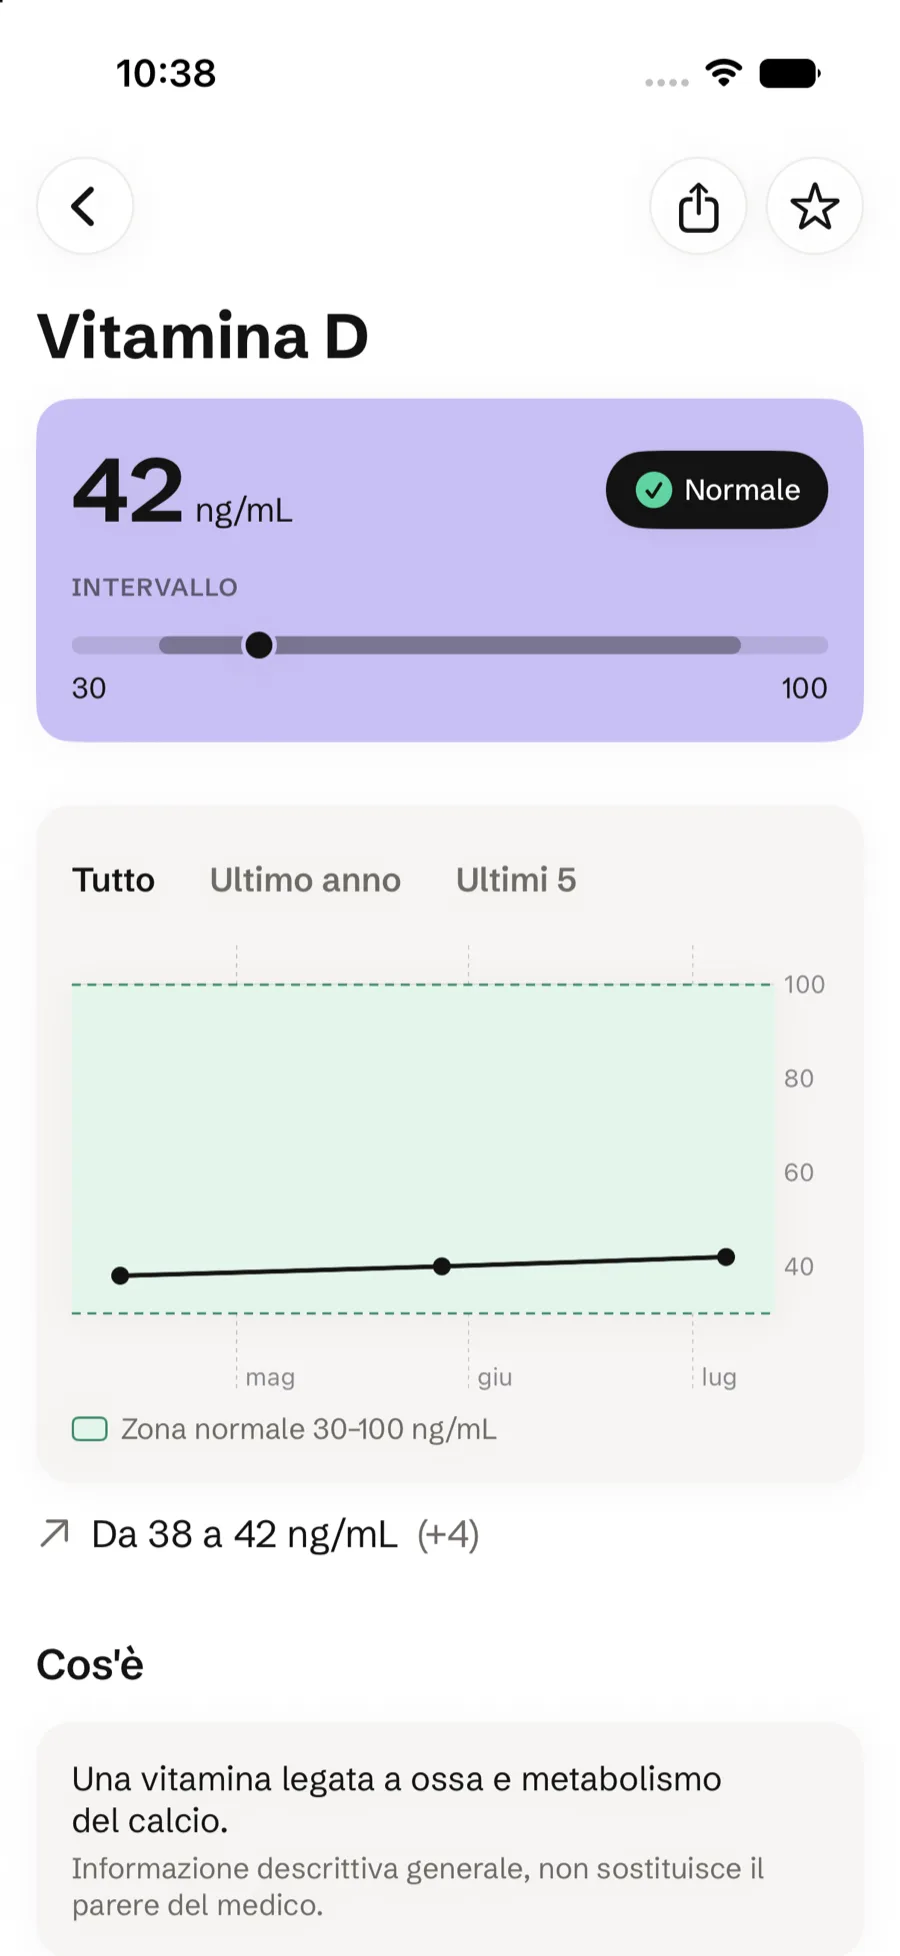
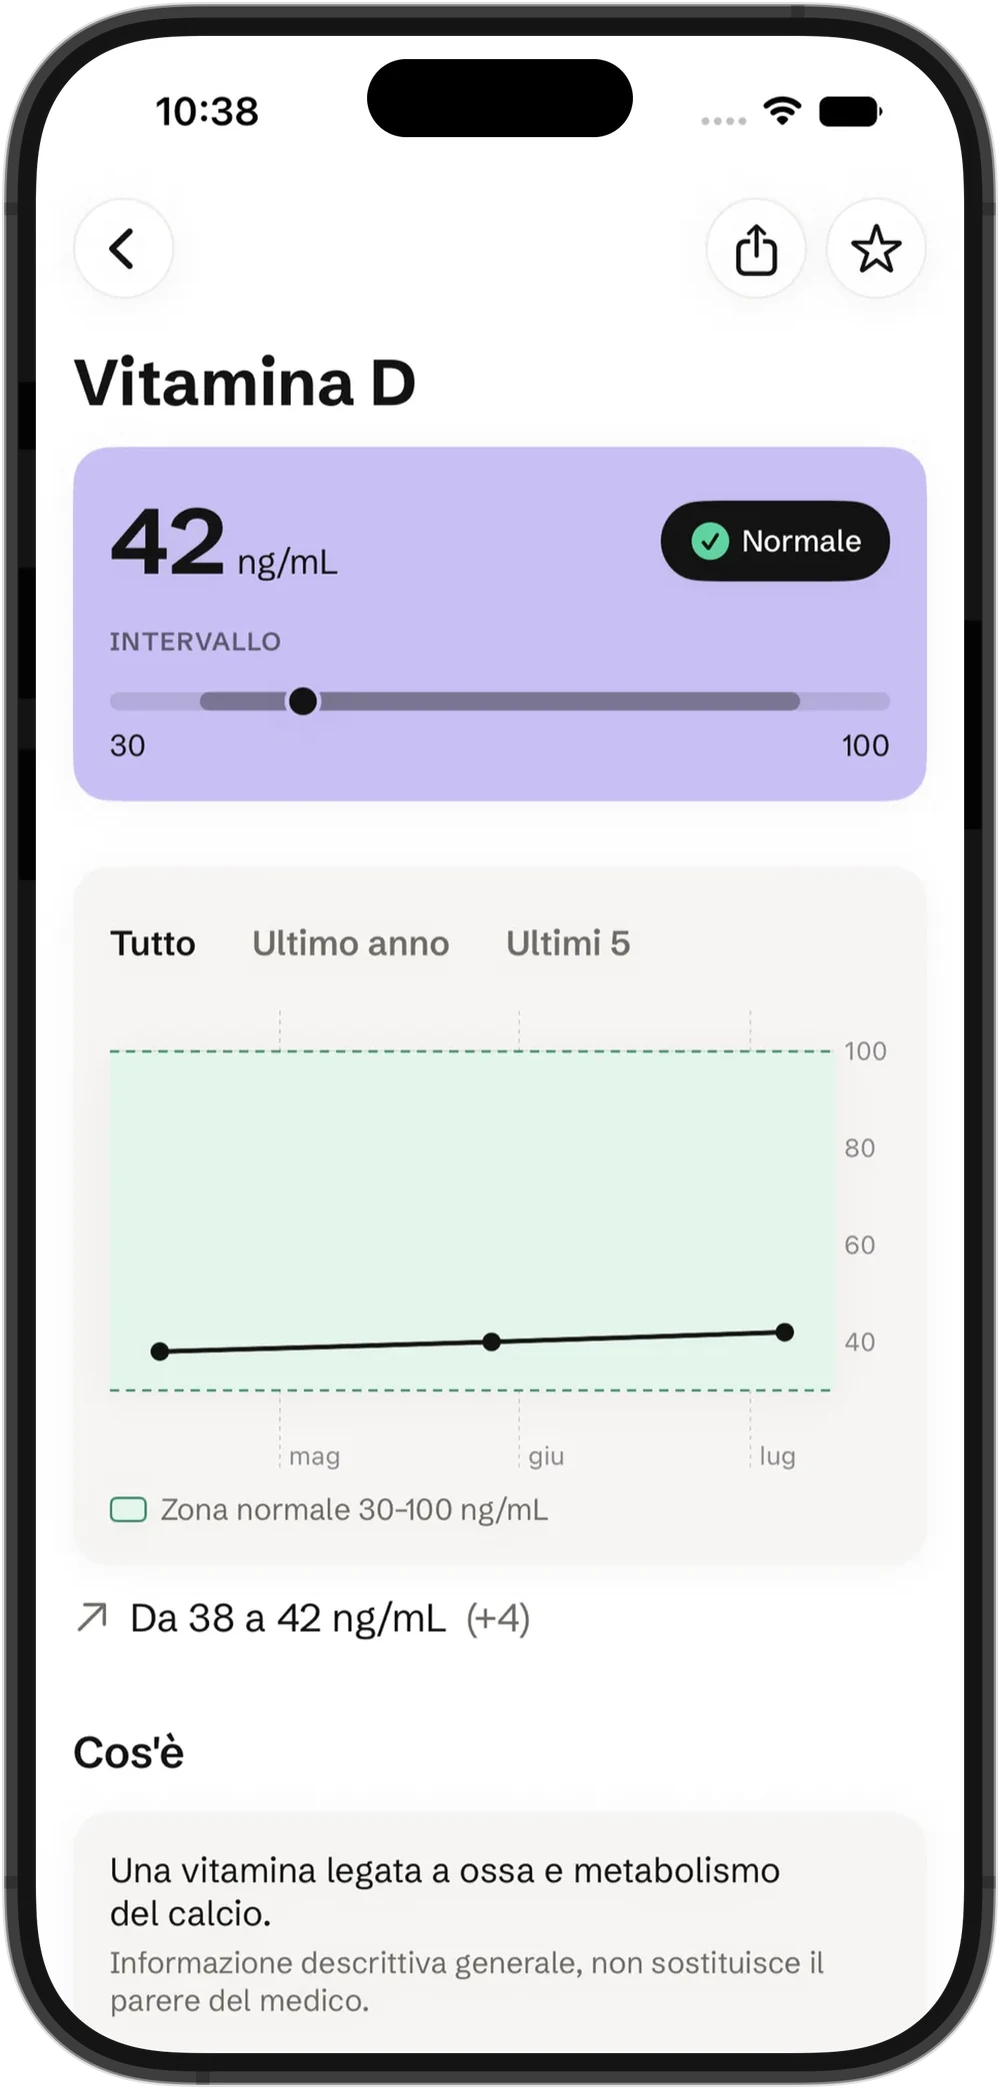
Sito: usa Refertrack+ come nell'app; mockup iPhone con cornice

diff --git a/index.html b/index.html
@@ -22,7 +22,7 @@
 <link rel="preconnect" href="https://fonts.googleapis.com" />
 <link rel="preconnect" href="https://fonts.gstatic.com" crossorigin />
 <link href="https://fonts.googleapis.com/css2?family=Schibsted+Grotesk:wght@400;500;600;700&display=swap" rel="stylesheet" />
-<link rel="stylesheet" href="styles.css" />
+<link rel="stylesheet" href="styles.css?v=20261018a" />
 <script>
   (function () {
     try {
@@ -85,7 +85,7 @@
     </div>
     <div class="hero-media reveal">
       <div class="device">
-        <img src="assets/screens/01-dashboard.webp" alt="La schermata iniziale di Refertrack, con il valore fuori range e gli ultimi referti" width="900" height="1956" />
+        <img src="assets/screens/01-dashboard.webp" alt="La schermata iniziale di Refertrack, con il valore fuori range e gli ultimi referti" width="1000" height="2089" />
       </div>
     </div>
   </div>
@@ -151,7 +151,7 @@
         </ul>
       </div>
       <div class="device">
-        <img src="assets/screens/02-revisione.webp" alt="La revisione di un referto in Refertrack: il valore letto dall'OCR accanto al ritaglio della foto" width="900" height="1956" loading="lazy" />
+        <img src="assets/screens/02-revisione.webp" alt="La revisione di un referto in Refertrack: il valore letto dall'OCR accanto al ritaglio della foto" width="1000" height="2089" loading="lazy" />
       </div>
     </div>
 
@@ -167,7 +167,7 @@
         </ul>
       </div>
       <div class="device">
-        <img src="assets/screens/03-parametro.webp" alt="Il dettaglio della Vitamina D in Refertrack, con il grafico dell'andamento e la zona normale" width="900" height="1956" loading="lazy" />
+        <img src="assets/screens/03-parametro.webp" alt="Il dettaglio della Vitamina D in Refertrack, con il grafico dell'andamento e la zona normale" width="1000" height="2089" loading="lazy" />
       </div>
     </div>
 
@@ -183,7 +183,7 @@
         </ul>
       </div>
       <div class="device">
-        <img src="assets/screens/05-dettaglio.webp" alt="Il dettaglio di un check-up in Refertrack, con i valori raggruppati per categoria" width="900" height="1956" loading="lazy" />
+        <img src="assets/screens/05-dettaglio.webp" alt="Il dettaglio di un check-up in Refertrack, con i valori raggruppati per categoria" width="1000" height="2089" loading="lazy" />
       </div>
     </div>
 
@@ -199,7 +199,7 @@
         </ul>
       </div>
       <div class="device">
-        <img src="assets/screens/04-referti.webp" alt="L'elenco dei referti in Refertrack, con lo stato di ogni controllo" width="900" height="1956" loading="lazy" />
+        <img src="assets/screens/04-referti.webp" alt="L'elenco dei referti in Refertrack, con lo stato di ogni controllo" width="1000" height="2089" loading="lazy" />
       </div>
     </div>
 
@@ -215,7 +215,7 @@
         </ul>
       </div>
       <div class="device">
-        <img src="assets/screens/06-vaccini.webp" alt="La panoramica dei vaccini in Refertrack: i contatori scaduto, in scadenza e a posto, con la card dell'antitetanica scaduta da 7 anni" width="900" height="1956" loading="lazy" />
+        <img src="assets/screens/06-vaccini.webp" alt="La panoramica dei vaccini in Refertrack: i contatori scaduto, in scadenza e a posto, con la card dell'antitetanica scaduta da 7 anni" width="1000" height="2089" loading="lazy" />
       </div>
     </div>
 
@@ -232,22 +232,22 @@
     <div class="feat-grid reveal">
       <div class="feat-card lavender">
         <div class="ic"><svg width="18" height="18" viewBox="0 0 24 24" fill="none" stroke="currentColor" stroke-width="2" stroke-linecap="round" stroke-linejoin="round"><path d="M16 3h5v5M4 20 21 3M8 21H3v-5"/></svg></div>
-        <h3>Confronto tra due referti <span class="pill">Premium</span></h3>
+        <h3>Confronto tra due referti <span class="pill">Refertrack+</span></h3>
         <p>Metti a confronto due controlli, parametro per parametro, e vedi subito cosa è cambiato tra l'uno e l'altro.</p>
       </div>
       <div class="feat-card peach">
         <div class="ic"><svg width="18" height="18" viewBox="0 0 24 24" fill="none" stroke="currentColor" stroke-width="2" stroke-linecap="round" stroke-linejoin="round"><path d="M17 21v-2a4 4 0 0 0-4-4H5a4 4 0 0 0-4 4v2"/><circle cx="9" cy="7" r="4"/><path d="M23 21v-2a4 4 0 0 0-3-3.87M16 3.13a4 4 0 0 1 0 7.75"/></svg></div>
-        <h3>Un profilo in più <span class="pill">Premium</span></h3>
+        <h3>Un profilo in più <span class="pill">Refertrack+</span></h3>
         <p>Tieni anche i referti e i vaccini di un figlio o di un familiare, separati dai tuoi, sullo stesso telefono.</p>
       </div>
       <div class="feat-card rose">
         <div class="ic"><svg width="18" height="18" viewBox="0 0 24 24" fill="none" stroke="currentColor" stroke-width="2" stroke-linecap="round" stroke-linejoin="round"><path d="M18 8a6 6 0 1 0-12 0c0 7-3 8-3 8h18s-3-1-3-8"/><path d="M13.7 21a2 2 0 0 1-3.4 0"/></svg></div>
         <h3>Promemoria per i controlli</h3>
-        <p>Ricordati di rifare un esame quando serve. Uno è sempre incluso; con Premium ne imposti quanti vuoi e ricevi un avviso quando un valore va nella stessa direzione da tre controlli di fila.</p>
+        <p>Ricordati di rifare un esame quando serve. Uno è sempre incluso; con Refertrack+ ne imposti quanti vuoi e ricevi un avviso quando un valore va nella stessa direzione da tre controlli di fila.</p>
       </div>
       <div class="feat-card plain">
         <div class="ic"><svg width="18" height="18" viewBox="0 0 24 24" fill="none" stroke="currentColor" stroke-width="2" stroke-linecap="round" stroke-linejoin="round"><path d="M4 12v7a2 2 0 0 0 2 2h12a2 2 0 0 0 2-2v-7"/><path d="M16 6l-4-4-4 4"/><path d="M12 2v14"/></svg></div>
-        <h3>Il grafico da mostrare al medico <span class="pill">Premium</span></h3>
+        <h3>Il grafico da mostrare al medico <span class="pill">Refertrack+</span></h3>
         <p>Esporta l'andamento di un parametro come immagine e mandalo al tuo medico, senza fargli sfogliare dieci referti.</p>
       </div>
     </div>
@@ -298,7 +298,7 @@
     <div class="section-head reveal">
       <span class="eyebrow"><span class="dot"></span> Prezzi onesti</span>
       <h2>La lettura dei referti è gratis. Per sempre.</h2>
-      <p>Nessuna prova a tempo e nessuna carta richiesta per iniziare. Premium aggiunge le funzioni in più, con un abbonamento annuale oppure un acquisto unico.</p>
+      <p>Nessuna prova a tempo e nessuna carta richiesta per iniziare. Refertrack+ aggiunge le funzioni in più, con un abbonamento annuale oppure un acquisto unico.</p>
     </div>
     <div class="price-grid">
       <div class="price reveal">
@@ -316,7 +316,7 @@
       </div>
       <div class="price premium reveal">
         <span class="price-tag">Consigliato</span>
-        <div class="tier">Premium</div>
+        <div class="tier">Refertrack+</div>
         <div class="amount">€14,99<small> / anno</small></div>
         <div class="sub">oppure €44,99 una tantum — a vita, nessun rinnovo.</div>
         <ul>
@@ -327,7 +327,7 @@
           <li><svg width="18" height="18" viewBox="0 0 24 24" fill="none" stroke="currentColor" stroke-width="2.2" stroke-linecap="round" stroke-linejoin="round"><path d="M20 6 9 17l-5-5"/></svg> Vaccini: date esatte dei richiami e libretto di famiglia</li>
           <li><svg width="18" height="18" viewBox="0 0 24 24" fill="none" stroke="currentColor" stroke-width="2.2" stroke-linecap="round" stroke-linejoin="round"><path d="M20 6 9 17l-5-5"/></svg> Ricerca nell'archivio e promemoria illimitati</li>
         </ul>
-        <a class="btn btn-primary" href="https://apps.apple.com/it/app/refertrack-referti-ed-esami/id6792460771">Scopri Premium</a>
+        <a class="btn btn-primary" href="https://apps.apple.com/it/app/refertrack-referti-ed-esami/id6792460771">Scopri Refertrack+</a>
       </div>
     </div>
     <p class="price-note reveal">Il riconoscimento dei referti resta gratuito in ogni caso e nessun dato viene mai eliminato: se non rinnovi, l'archivio e i grafici restano tuoi.</p>
@@ -343,7 +343,7 @@
     <div class="faq reveal">
       <div class="faq-item">
         <button class="faq-q" aria-expanded="false">Quanto costa?<svg class="chev" width="18" height="18" viewBox="0 0 24 24" fill="none" stroke="currentColor" stroke-width="2" stroke-linecap="round" stroke-linejoin="round"><path d="m6 9 6 6 6-6"/></svg></button>
-        <div class="faq-a"><p>L'app è gratuita e la lettura dei referti lo resta per sempre, senza limiti di scansioni. Premium costa €14,99 all'anno oppure €44,99 una tantum (a vita, senza rinnovo) e aggiunge confronto tra referti, un profilo in più, avvisi sui valori in movimento, condivisione del grafico, le date esatte dei richiami dei vaccini col libretto di famiglia e promemoria illimitati.</p></div>
+        <div class="faq-a"><p>L'app è gratuita e la lettura dei referti lo resta per sempre, senza limiti di scansioni. Refertrack+ costa €14,99 all'anno oppure €44,99 una tantum (a vita, senza rinnovo) e aggiunge confronto tra referti, un profilo in più, avvisi sui valori in movimento, condivisione del grafico, le date esatte dei richiami dei vaccini col libretto di famiglia e promemoria illimitati.</p></div>
       </div>
       <div class="faq-item">
         <button class="faq-q" aria-expanded="false">I miei dati sanitari sono al sicuro?<svg class="chev" width="18" height="18" viewBox="0 0 24 24" fill="none" stroke="currentColor" stroke-width="2" stroke-linecap="round" stroke-linejoin="round"><path d="m6 9 6 6 6-6"/></svg></button>
@@ -355,7 +355,7 @@
       </div>
       <div class="faq-item">
         <button class="faq-q" aria-expanded="false">Tiene anche i vaccini?<svg class="chev" width="18" height="18" viewBox="0 0 24 24" fill="none" stroke="currentColor" stroke-width="2" stroke-linecap="round" stroke-linejoin="round"><path d="m6 9 6 6 6-6"/></svg></button>
-        <div class="faq-a"><p>Sì. Fotografi il certificato vaccinale o inserisci le date a mano, e Refertrack calcola quando scade ogni richiamo sul calendario del tuo Paese (Italia, Germania, Francia, Spagna) e te lo ricorda. Sapere se un vaccino è scaduto o in regola è gratis; con Premium vedi le date esatte e gestisci il libretto di tutta la famiglia. Le scadenze sono indicative e non sostituiscono il parere del medico.</p></div>
+        <div class="faq-a"><p>Sì. Fotografi il certificato vaccinale o inserisci le date a mano, e Refertrack calcola quando scade ogni richiamo sul calendario del tuo Paese (Italia, Germania, Francia, Spagna) e te lo ricorda. Sapere se un vaccino è scaduto o in regola è gratis; con Refertrack+ vedi le date esatte e gestisci il libretto di tutta la famiglia. Le scadenze sono indicative e non sostituiscono il parere del medico.</p></div>
       </div>
       <div class="faq-item">
         <button class="faq-q" aria-expanded="false">Refertrack mi dice se un valore è preoccupante?<svg class="chev" width="18" height="18" viewBox="0 0 24 24" fill="none" stroke="currentColor" stroke-width="2" stroke-linecap="round" stroke-linejoin="round"><path d="m6 9 6 6 6-6"/></svg></button>

diff --git a/styles.css b/styles.css
@@ -162,27 +162,16 @@ ul, ol { padding: 0; list-style: none; }
 .hero-reassure { margin-top: 16px; display: flex; align-items: center; gap: 8px; font-size: 14px; color: var(--text-tertiary); }
 .hero-reassure svg { color: var(--accent-green); flex: none; }
 
-/* Stesso schema del sito Quillino (frame giudicato meglio riuscito): `box-sizing: content-box`
-   contro il reset globale border-box così `aspect-ratio` descrive l'area DENTRO il padding (dove
-   vive lo screenshot) — padding/bordo si aggiungono fuori, niente calcolo bordo/content-box misto
-   che aveva causato "il contenuto esce dagli iphone" nella versione precedente. Bezel sottile
-   (5px, non 10px): un bordo spesso è stato bocciato più volte su Quillino come "troppo chunky".
-   Bordo fisso rgba(255,255,255,0.22) (non da var tema): resta leggibile anche quando lo
-   screenshot dentro è in dark mode e quasi nero quanto la cornice stessa. */
+/* La cornice (stessa DeviceKit dei post Instagram, vedi tools/frame.py) è già nell'immagine, con
+   trasparenza: qui restano solo misura e ombra. */
 .device {
-  position: relative; box-sizing: content-box;
-  width: 100%; max-width: calc(280px - 10px);
-  aspect-ratio: 1206 / 2622;
-  background: #0b0a0a;
-  border-radius: 44px; padding: 5px;
-  border: 1px solid rgba(255,255,255,0.22);
-  box-shadow: var(--shadow-float);
+  position: relative;
+  width: 100%; max-width: 280px;
+  aspect-ratio: 1000 / 2089;
+  filter: drop-shadow(0 18px 30px rgba(0,0,0,.16));
   margin: 0 auto;
 }
-.device img {
-  width: 100%; height: 100%;
-  object-fit: cover; border-radius: 40px;
-}
+.device img { width: 100%; height: 100%; object-fit: contain; }
 .hero-media { display: flex; justify-content: center; }
 
 /* ------------------------------------------------------------------ Trust */
